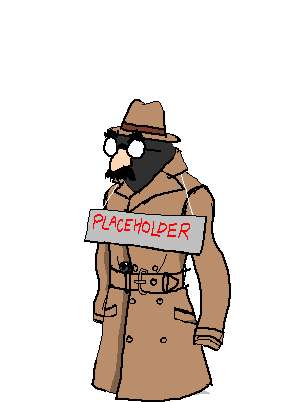
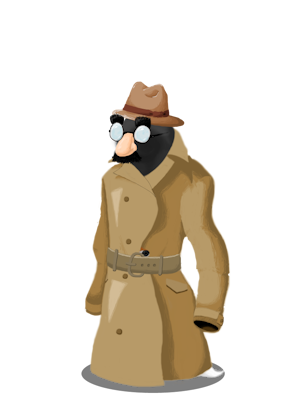
spireitized the graphics. should be all set to go now.

Changed region(s): [[0.27, 0.1791, 0.78, 1.0]]

diff --git a/src/main/java/spireCafe/interactables/patrons/powerelic/implementation/PowerelicPatron.java b/src/main/java/spireCafe/interactables/patrons/powerelic/implementation/PowerelicPatron.java
@@ -2,10 +2,8 @@ package spireCafe.interactables.patrons.powerelic.implementation;
 
 import com.badlogic.gdx.graphics.g2d.SpriteBatch;
 import com.badlogic.gdx.graphics.g2d.TextureRegion;
-import com.badlogic.gdx.math.MathUtils;
 import com.megacrit.cardcrawl.cards.AbstractCard;
 import com.megacrit.cardcrawl.core.CardCrawlGame;
-import com.megacrit.cardcrawl.core.Settings;
 import com.megacrit.cardcrawl.dungeons.AbstractDungeon;
 import com.megacrit.cardcrawl.localization.CharacterStrings;
 import spireCafe.Anniv7Mod;
@@ -21,12 +19,12 @@ public class PowerelicPatron extends AbstractPatron {
     private static final CharacterStrings characterStrings = CardCrawlGame.languagePack.getCharacterString(Anniv7Mod.makeID(ID));
 
     protected boolean alreadyTalkedOnce=false;
-    protected static final int DEFAULT_GOLD_COST=300;
 
     public PowerelicPatron(float animationX, float animationY) {
         super(animationX, animationY, 160.0f, 200.0f);
         this.name = characterStrings.NAMES[0];
         this.authors = "Lua Viper";
+        this.animationY=300f;
 
         img = TexLoader.getTexture(Anniv7Mod.makeCharacterPath("Powerelic/patron.png"));
         cutscenePortrait = new TextureRegion(TexLoader.getTexture(Anniv7Mod.makeCharacterPath("Powerelic/portrait.png")));
@@ -38,7 +36,7 @@ public class PowerelicPatron extends AbstractPatron {
 
     @Override
     public void renderCutscenePortrait(SpriteBatch sb) {
-        simpleRenderCutscenePortrait(sb, 1560.0F, 0.0F, 0.0F, 0.0F, 0.0F);
+        simpleRenderCutscenePortrait(sb, 1560.0F, -200.0F, 0.0F, 0.0F, 0.0F);
     }
 
     @Override
